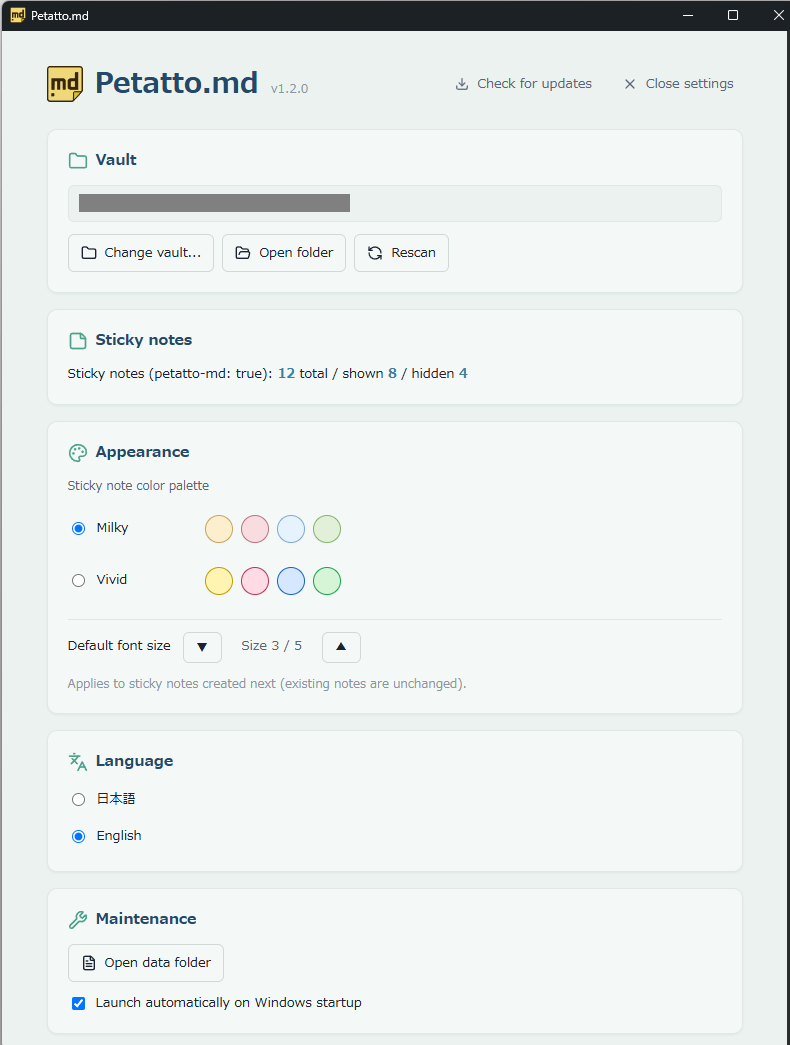
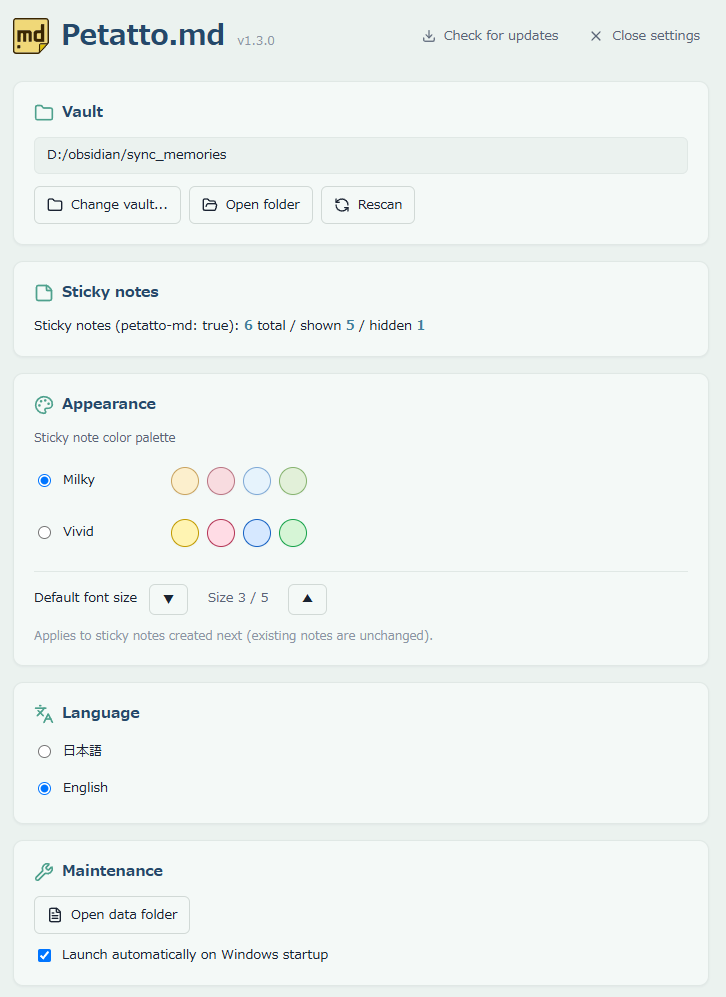
docs: README 日英に Microsoft Store 版の案内を追加＋メイン画像を更新（MSI v1.3.1 同期）

diff --git a/README.en.md b/README.en.md
@@ -52,6 +52,27 @@ Starting with v0.1.1, update checks are provided via `tauri-plugin-updater`. Thi
 Uninstall **Petatto-md** from "Apps & features" or "Settings → Apps".
 The DB and logs remain after uninstallation. To remove them completely, delete the folders listed under "Data Storage Locations" below.
 
+## About the Microsoft Store (MSIX) Edition
+
+> ✅ **Now available on the Microsoft Store** → **[Get it from the Microsoft Store](https://apps.microsoft.com/detail/9N77B4HPVRBB)**
+
+In addition to the GitHub MSI edition, Petatto.md is offered as an **MSIX edition** through the Microsoft Store. The Store edition has the following characteristics:
+
+- **No SmartScreen warning** (Microsoft signs the package, so the "Unknown publisher" prompt shown by the MSI edition does not appear).
+- **Clean install/uninstall** (installed and removed through the Store).
+
+### ⚠ Running the MSI and Store editions together is not recommended
+
+Please use only one of them. Installing both splits how the state data (DB) is handled:
+
+- **If you install both fresh**: sticky-note state such as position and color is **managed separately** by each edition and is not synced between them.
+- **If you install the Store edition on a machine that already has the MSI edition**: the two **share the same state data (DB)**. Running them at the same time can conflict—for example, the same note may appear twice.
+
+### Migrating from the MSI edition to the Store edition
+
+- **The autostart setting (launch at Windows login) is not carried over.** In the Store edition, turn on "Launch automatically at Windows startup" again from the **Maintenance** card in the main window (the Store edition manages login autostart via the Windows StartupTask, so the MSI edition's setting does not transfer).
+- As noted above, on a machine where the MSI edition remains, the DB is shared. If you do not need to keep the MSI edition, uninstall it first and then install the Store edition to consolidate your state into one place.
+
 ## First Run and Vault Setup
 
 1. The main window opens with no vault configured.
